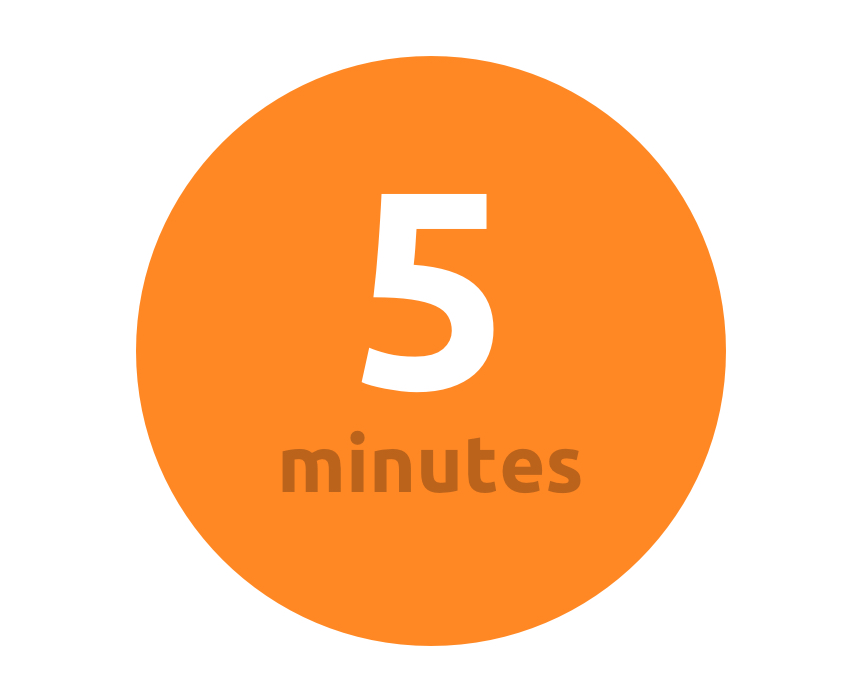
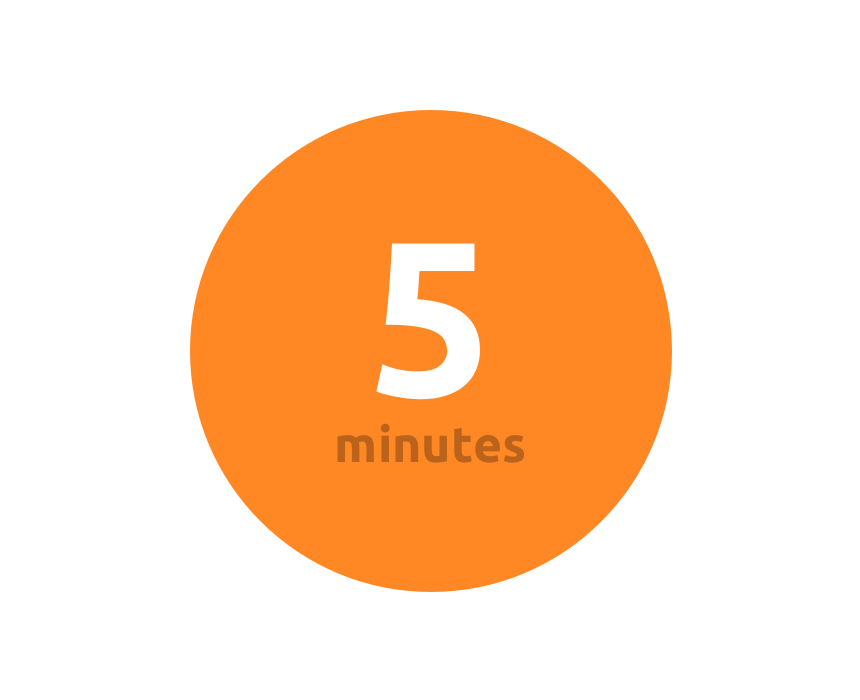
smoothed some edges

Changed region(s): [[0.1512, 0.06, 0.8465, 0.93], [0.4233, 0.27, 0.5744, 0.57], [0.3023, 0.6, 0.6953, 0.72]]

diff --git a/servers/website/public/less/landing/hero.less b/servers/website/public/less/landing/hero.less
@@ -221,8 +221,7 @@
     .founders {
       position: relative;
       z-index: 1;
-      padding-top: 20px;
-      height: 110px;
+      padding: 15px 0;
       text-align: center;
       background: black;
       text-align: center;
@@ -255,6 +254,20 @@
         .title {
           font-weight: lighter;
           color: rgba(255, 255, 255, 0.6);
+        }
+        
+        .social {
+          margin-top: 10px;
+          
+          a {
+            display: inline-block;
+            margin: 0 5px;
+            font-size: 1.2em;
+            
+            &:hover {
+              color: @blue;
+            }
+          }
         }
       }
     }

diff --git a/servers/website/public/less/landing/product.less b/servers/website/public/less/landing/product.less
@@ -13,6 +13,10 @@
     margin: 0 0 70px 0;
     font-size: 2em;
     text-shadow: 0 -1px 0 white;
+    
+    span {
+      color: @text_weak;
+    }
   }
   
   .images {
@@ -40,7 +44,7 @@
     line-height: 2em;
     font-family: "Ubuntu";
     color: @text_weak;
-    margin-bottom: 50px;
+    margin-bottom: 150px;
     
     span {
       line-height: 1.3em;
@@ -148,7 +152,7 @@
               margin-bottom: 2px;
               
               span {
-                color: @blue;
+                color: @green;
               }
             }
             
